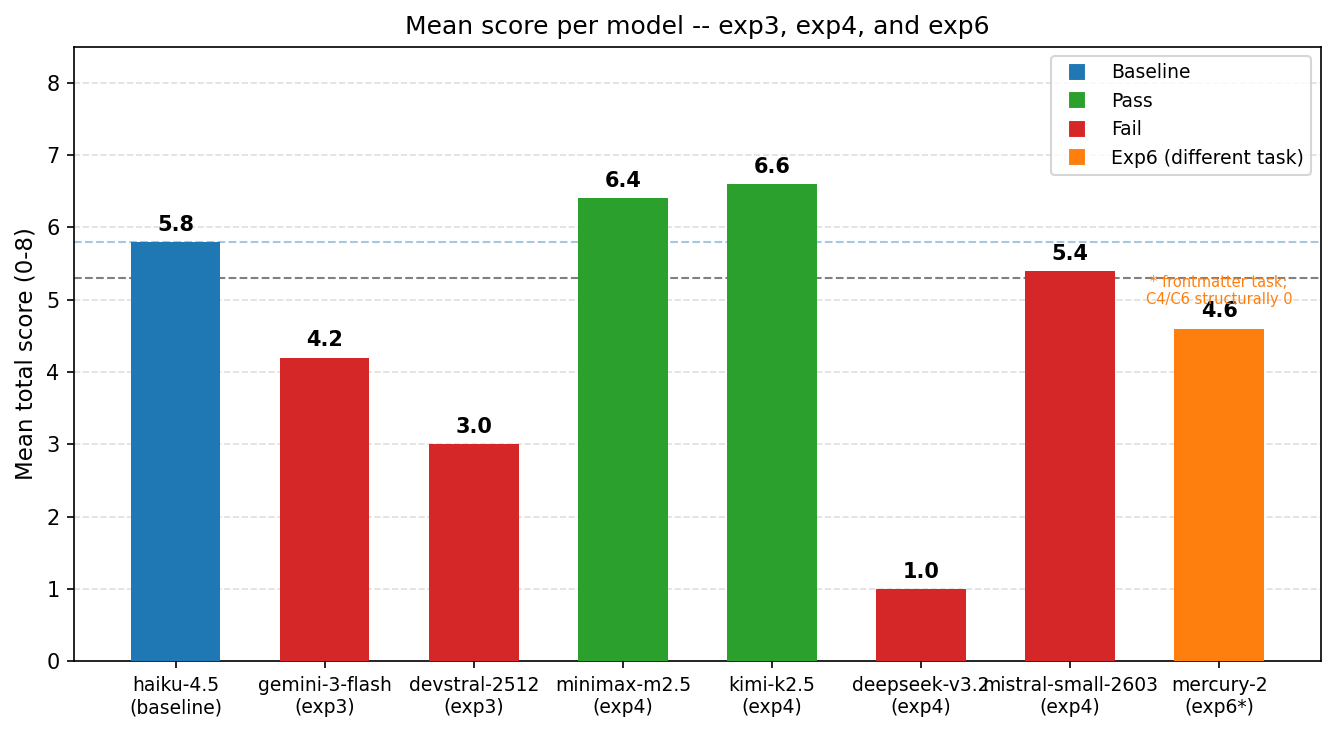
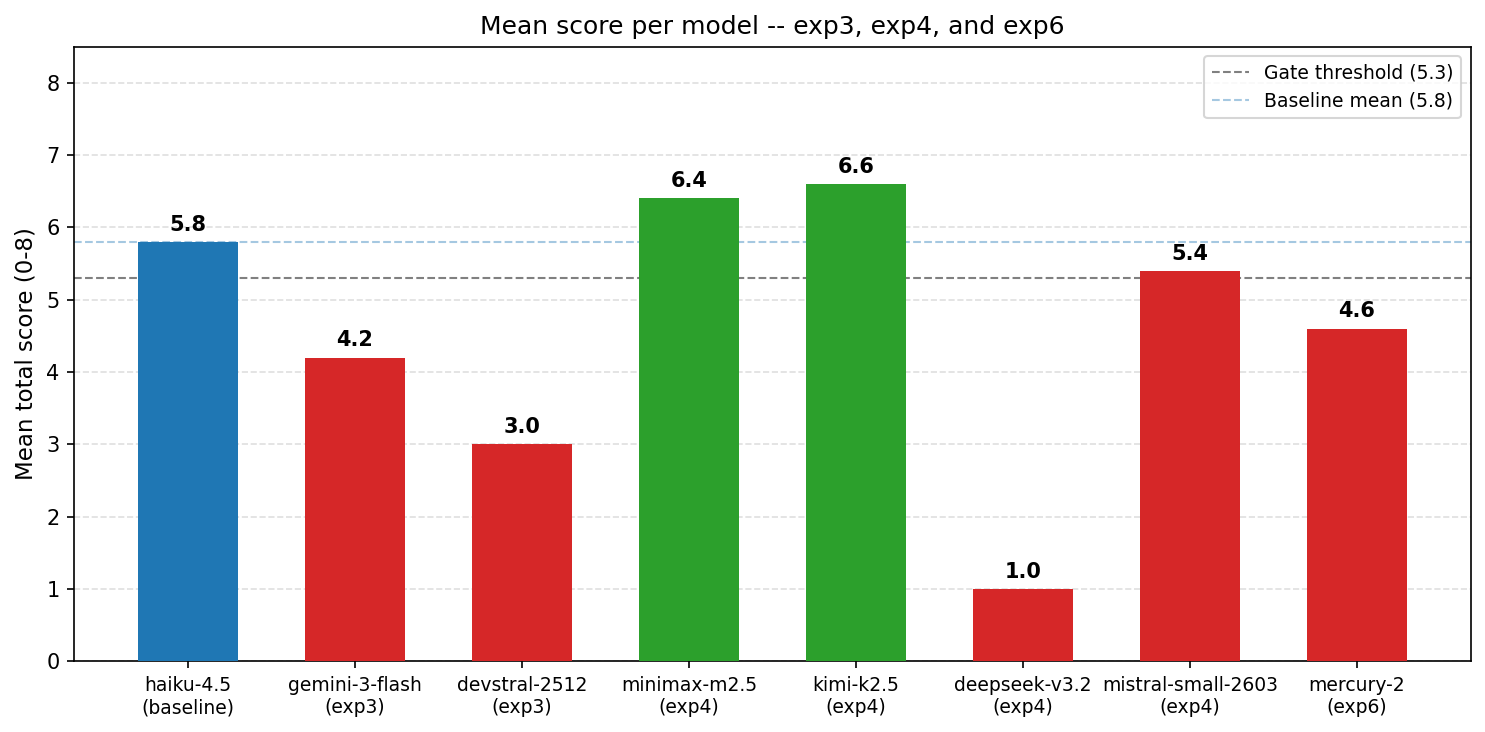
docs(figures): simplify Mercury 2 display to match other models
Remove orange color, triangle marker, asterisks, and footnote text.
Mercury 2 rendered identically to other models: red bar/cross (fail)
in all four figures. exp6 noted only in axis labels and title.

diff --git a/figures/eff-cost-bar.py b/figures/eff-cost-bar.py
@@ -4,16 +4,16 @@ import matplotlib.pyplot as plt
 
 models    = ["minimax-m2.5", "gemini-3-flash", "deepseek-v3.2", "mistral-small-2603", "kimi-k2.5", "devstral-2512", "haiku-4.5", "mercury-2"]
 eff_cpqp  = [0.0179,         0.0217,           0.0210,          0.0023,               0.0401,       0.045,           0.1505,      0.0007]
-verdicts  = ["pass",         "fail",           "fail",          "fail",               "pass",       "fail",          "baseline",  "exp6"]
+verdicts  = ["pass",         "fail",           "fail",          "fail",               "pass",       "fail",          "baseline",  "fail"]
 
 # Sort by eff_cpqp ascending
 sorted_data = sorted(zip(eff_cpqp, models, verdicts))
 eff_cpqp_s, models_s, verdicts_s = zip(*sorted_data)
 
-colors_map = {"baseline": "#1f77b4", "pass": "#2ca02c", "fail": "#d62728", "exp6": "#ff7f0e"}
+colors_map = {"baseline": "#1f77b4", "pass": "#2ca02c", "fail": "#d62728"}
 bar_colors = [colors_map[v] for v in verdicts_s]
 
-fig, ax = plt.subplots(figsize=(8, 4))
+fig, ax = plt.subplots(figsize=(8, 5))
 bars = ax.barh(models_s, eff_cpqp_s, color=bar_colors, height=0.6)
 
 ax.set_xlabel("Effective cost per quality point (USD) -- lower is better", fontsize=11)
@@ -21,19 +21,15 @@ ax.set_title("Efficiency metric: eff_cost_per_qp -- exp3, exp4, and exp6 candida
 ax.set_xlim(0, 0.17)
 
 # Annotate bars with values
-for bar, val, model in zip(bars, eff_cpqp_s, models_s):
-    label = f"${val:.4f}" + (" *" if model == "mercury-2" else "")
+for bar, val in zip(bars, eff_cpqp_s):
     ax.text(val + 0.002, bar.get_y() + bar.get_height() / 2,
-            label, va="center", fontsize=9)
-
-ax.text(0.01, -0.5, "* exp6 (frontmatter task; not directly comparable to exp3/exp4)", fontsize=7, color="#ff7f0e", transform=ax.get_yaxis_transform())
+            f"${val:.4f}", va="center", fontsize=9)
 
 from matplotlib.lines import Line2D
 legend_elements = [
     Line2D([0], [0], marker="s", color="w", markerfacecolor="#1f77b4", markersize=9, label="Baseline"),
     Line2D([0], [0], marker="s", color="w", markerfacecolor="#2ca02c", markersize=9, label="Pass"),
     Line2D([0], [0], marker="s", color="w", markerfacecolor="#d62728", markersize=9, label="Fail"),
-    Line2D([0], [0], marker="s", color="w", markerfacecolor="#ff7f0e", markersize=9, label="Exp6 (different task)"),
 ]
 ax.legend(handles=legend_elements, loc="lower right", fontsize=9)
 

diff --git a/figures/cost-quality-scatter.py b/figures/cost-quality-scatter.py
@@ -6,19 +6,19 @@ from matplotlib.lines import Line2D
 models     = ["haiku-4.5", "kimi-k2.5", "minimax-m2.5", "gemini-3-flash", "devstral-2512", "deepseek-v3.2", "mistral-small-2603", "mercury-2"]
 cost_usd   = [0.0222, 0.0122, 0.0043, 0.0021, 0.0025, 0.0011, 0.0078, 0.0029]
 mean_score = [5.8, 6.6, 6.4, 4.2, 3.0, 1.0, 5.4, 4.6]
-verdicts   = ["baseline", "pass", "pass", "fail", "fail", "fail", "fail", "exp6"]
+verdicts   = ["baseline", "pass", "pass", "fail", "fail", "fail", "fail", "fail"]
 
-colors  = {"baseline": "#1f77b4", "pass": "#2ca02c", "fail": "#d62728", "exp6": "#ff7f0e"}
-markers = {"baseline": "D", "pass": "o", "fail": "x", "exp6": "^"}
+colors  = {"baseline": "#1f77b4", "pass": "#2ca02c", "fail": "#d62728"}
+markers = {"baseline": "D", "pass": "o", "fail": "x"}
 offsets = {
-    "haiku-4.5":      (8, -12),
-    "kimi-k2.5":      (8,   4),
-    "minimax-m2.5":   (8, -12),
-    "gemini-3-flash": (8,   4),
-    "devstral-2512":  (8, -12),
-    "deepseek-v3.2":  (8,   4),
+    "haiku-4.5":          (8, -12),
+    "kimi-k2.5":          (8,   4),
+    "minimax-m2.5":       (8, -12),
+    "gemini-3-flash":     (8,   4),
+    "devstral-2512":      (8, -12),
+    "deepseek-v3.2":      (8,   4),
     "mistral-small-2603": (8, -12),
-    "mercury-2":      (8,   4),
+    "mercury-2":          (8,   4),
 }
 
 fig, ax = plt.subplots(figsize=(8, 5))
@@ -37,12 +37,10 @@ ax.set_ylim(0, 8.5)
 ax.set_xlabel("Estimated cost per run (USD, log scale)", fontsize=11)
 ax.set_ylabel("Mean total score (0-8)", fontsize=11)
 ax.set_title("Quality vs. Cost -- exp3, exp4, and exp6 candidates", fontsize=12)
-
 legend_elements = [
     Line2D([0], [0], marker="D", color="w", markerfacecolor="#1f77b4", markersize=9, label="Baseline"),
     Line2D([0], [0], marker="o", color="w", markerfacecolor="#2ca02c", markersize=9, label="Pass"),
     Line2D([0], [0], marker="x", color="#d62728",                      markersize=9, label="Fail"),
-    Line2D([0], [0], marker="^", color="w", markerfacecolor="#ff7f0e", markersize=9, label="Exp6 (different task)"),
 ]
 ax.legend(handles=legend_elements, loc="lower right", fontsize=9)
 

diff --git a/figures/mean-score-bar.py b/figures/mean-score-bar.py
@@ -2,14 +2,14 @@ import matplotlib
 matplotlib.use('Agg')
 import matplotlib.pyplot as plt
 
-models   = ["haiku-4.5\n(baseline)", "gemini-3-flash\n(exp3)", "devstral-2512\n(exp3)", "minimax-m2.5\n(exp4)", "kimi-k2.5\n(exp4)", "deepseek-v3.2\n(exp4)", "mistral-small-2603\n(exp4)", "mercury-2\n(exp6*)"]
+models   = ["haiku-4.5\n(baseline)", "gemini-3-flash\n(exp3)", "devstral-2512\n(exp3)", "minimax-m2.5\n(exp4)", "kimi-k2.5\n(exp4)", "deepseek-v3.2\n(exp4)", "mistral-small-2603\n(exp4)", "mercury-2\n(exp6)"]
 scores   = [5.8, 4.2, 3.0, 6.4, 6.6, 1.0, 5.4, 4.6]
-verdicts = ["baseline", "fail", "fail", "pass", "pass", "fail", "fail", "exp6"]
+verdicts = ["baseline", "fail", "fail", "pass", "pass", "fail", "fail", "fail"]
 
-colors = {"baseline": "#1f77b4", "pass": "#2ca02c", "fail": "#d62728", "exp6": "#ff7f0e"}
+colors = {"baseline": "#1f77b4", "pass": "#2ca02c", "fail": "#d62728"}
 bar_colors = [colors[v] for v in verdicts]
 
-fig, ax = plt.subplots(figsize=(9, 5))
+fig, ax = plt.subplots(figsize=(10, 5))
 
 bars = ax.bar(range(len(models)), scores, color=bar_colors, width=0.6, zorder=3)
 
@@ -26,16 +26,6 @@ ax.set_ylim(0, 8.5)
 ax.set_ylabel("Mean total score (0-8)", fontsize=11)
 ax.set_title("Mean score per model -- exp3, exp4, and exp6", fontsize=12)
 ax.legend(fontsize=9, loc="upper right")
-
-from matplotlib.lines import Line2D
-legend_elements = [
-    Line2D([0], [0], marker="s", color="w", markerfacecolor="#1f77b4", markersize=9, label="Baseline"),
-    Line2D([0], [0], marker="s", color="w", markerfacecolor="#2ca02c", markersize=9, label="Pass"),
-    Line2D([0], [0], marker="s", color="w", markerfacecolor="#d62728", markersize=9, label="Fail"),
-    Line2D([0], [0], marker="s", color="w", markerfacecolor="#ff7f0e", markersize=9, label="Exp6 (different task)"),
-]
-ax.legend(handles=legend_elements, fontsize=9, loc="upper right")
-ax.text(7, 4.6 + 0.3, "* frontmatter task;\nC4/C6 structurally 0", ha="center", va="bottom", fontsize=7, color="#ff7f0e")
 ax.yaxis.grid(True, linestyle="--", alpha=0.4, zorder=0)
 ax.set_axisbelow(True)
 

diff --git a/figures/criterion-heatmap.py b/figures/criterion-heatmap.py
@@ -7,22 +7,22 @@ models = [
     'haiku-4.5\n(baseline)',
     'kimi-k2.5\n(pass)',
     'minimax-m2.5\n(pass)',
+    'mercury-2\n(exp6)',
     'gemini-3-flash\n(fail)',
     'devstral-2512\n(fail)',
     'deepseek-v3.2\n(fail)',
     'mistral-small-2603\n(fail)',
-    'mercury-2\n(exp6*)',
 ]
 criteria = ['C1', 'C2', 'C3', 'C4', 'C5', 'C6', 'C7', 'C8']
 data = np.array([
     [1.0, 1.0, 0.2, 1.0, 0.2, 0.4, 1.0, 1.0],  # haiku
     [1.0, 1.0, 0.6, 1.0, 0.4, 1.0, 1.0, 1.0],  # kimi
     [1.0, 1.0, 0.0, 1.0, 0.8, 0.4, 0.8, 1.0],  # minimax
+    [1.0, 0.8, 0.8, 0.0, 1.0, 0.0, 0.0, 1.0],  # mercury-2
     [1.0, 1.0, 0.0, 0.8, 0.2, 0.0, 0.2, 1.0],  # gemini
     [1.0, 0.8, 0.0, 0.0, 0.0, 0.0, 0.2, 1.0],  # devstral
     [0.0, 0.0, 0.0, 0.0, 0.0, 0.0, 0.0, 1.0],  # deepseek
     [1.0, 1.0, 0.0, 1.0, 0.0, 0.6, 0.6, 1.0],  # mistral
-    [1.0, 0.8, 0.8, 0.0, 1.0, 0.0, 0.0, 1.0],  # mercury-2 (exp6; C4/C6 structurally 0)
 ])
 
 fig, ax = plt.subplots(figsize=(10, 6))
@@ -42,9 +42,7 @@ for i in range(len(models)):
 
 ax.axhline(y=0.5, color='#444', linewidth=1.5, linestyle='--')
 ax.axhline(y=2.5, color='#444', linewidth=1.5, linestyle='--')
-ax.axhline(y=6.5, color='#ff7f0e', linewidth=1.5, linestyle=':')
-
-ax.text(7.6, 7, '* exp6\nfrontmatter\ntask;\nC4/C6\nstructurally 0', ha='left', va='center', fontsize=7, color='#ff7f0e')
+ax.axhline(y=3.5, color='#444', linewidth=1.5, linestyle='--')
 
 plt.colorbar(im, ax=ax, label='Pass rate (0.0 = never, 1.0 = always)')
 ax.set_title('Criterion pass rates across all evaluated models (exp3 + exp4 + exp6)', fontsize=12, pad=12)
